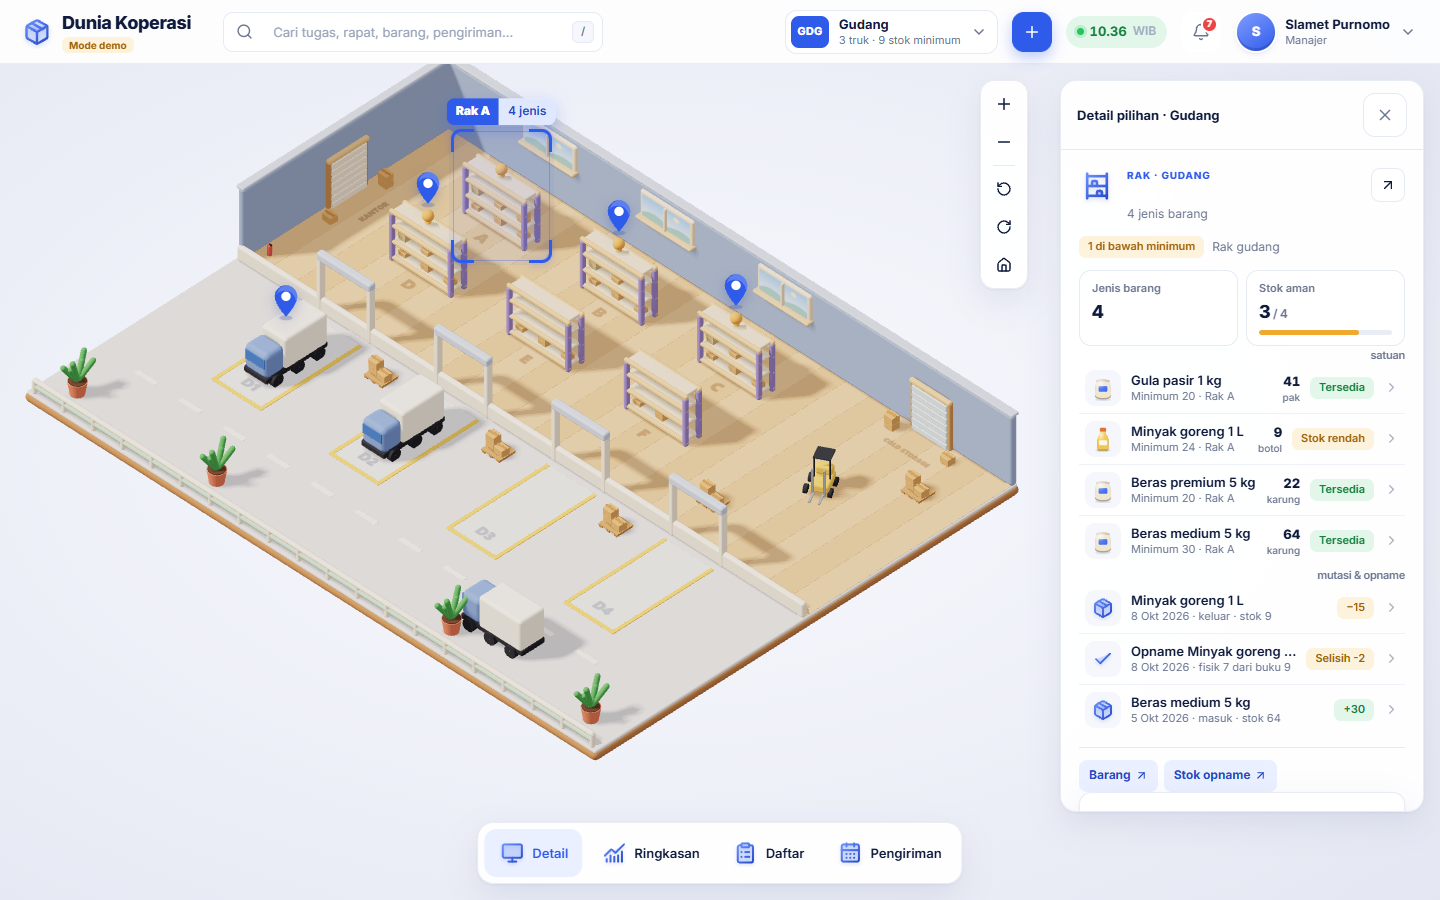
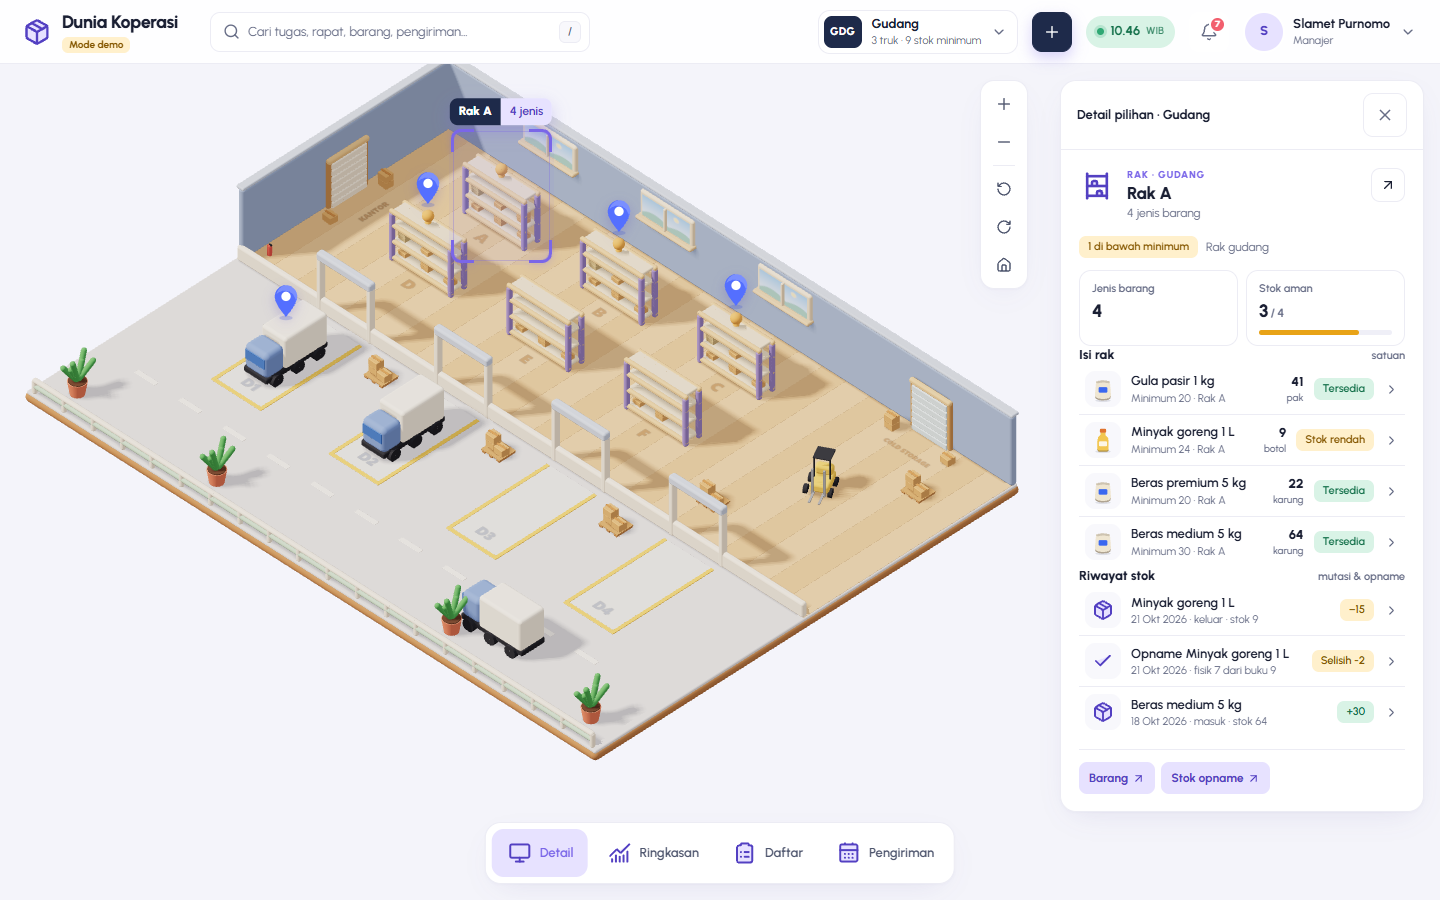
docs: perbarui gambar dunia 3d di readme
Kartu dan tombol Dunia 3D kini memakai warna dan huruf aplikasi, jadi tiga gambar di
docs/gambar diambil ulang dari mode demo (1440 × 900, sudut yang sama: kantor, rak A gudang,
pulau). Cabang lama rapikan/repo-3d yang tidak digabung sudah dihapus atas keputusan pemilik,
sehingga butir yang menunggu keputusan dikeluarkan dari STATUS.

diff --git a/docs/STATUS.md b/docs/STATUS.md
@@ -18,8 +18,7 @@ Satu-satunya catatan keadaan untuk semua AI dan manusia. Timpa bagian yang berub
 1. Pemilik meninjau tampilan di `npm run dev:demo -- -p 3200` (HP, tablet, laptop) dan memberi koreksi.
 2. Pemilik menjalankan migrasi 11 di Supabase (setelah migrasi 1–10), lalu seed contoh bila perlu (`docs/DATABASE.md`).
 3. Setelah disetujui: `npm run cek:penuh`, push cabang, buka pull request ke `main`.
-4. Menunggu keputusan pemilik: cabang lama `rapikan/repo-3d` (belum digabung, di luar cabang kerja) dihapus atau tidak; gambar README (`docs/gambar/`) diambil ulang karena kartu dunia kini memakai warna aplikasi.
-5. Belum dikerjakan: halaman Agenda masih tampilan daftar umum (belum kalender pekan khusus); tes perilaku UI baru belum ditulis (hanya tes logika).
+4. Belum dikerjakan: halaman Agenda masih tampilan daftar umum (belum kalender pekan khusus); tes perilaku UI baru belum ditulis (hanya tes logika).
 
 ## Keputusan pemilik yang berlaku
 
